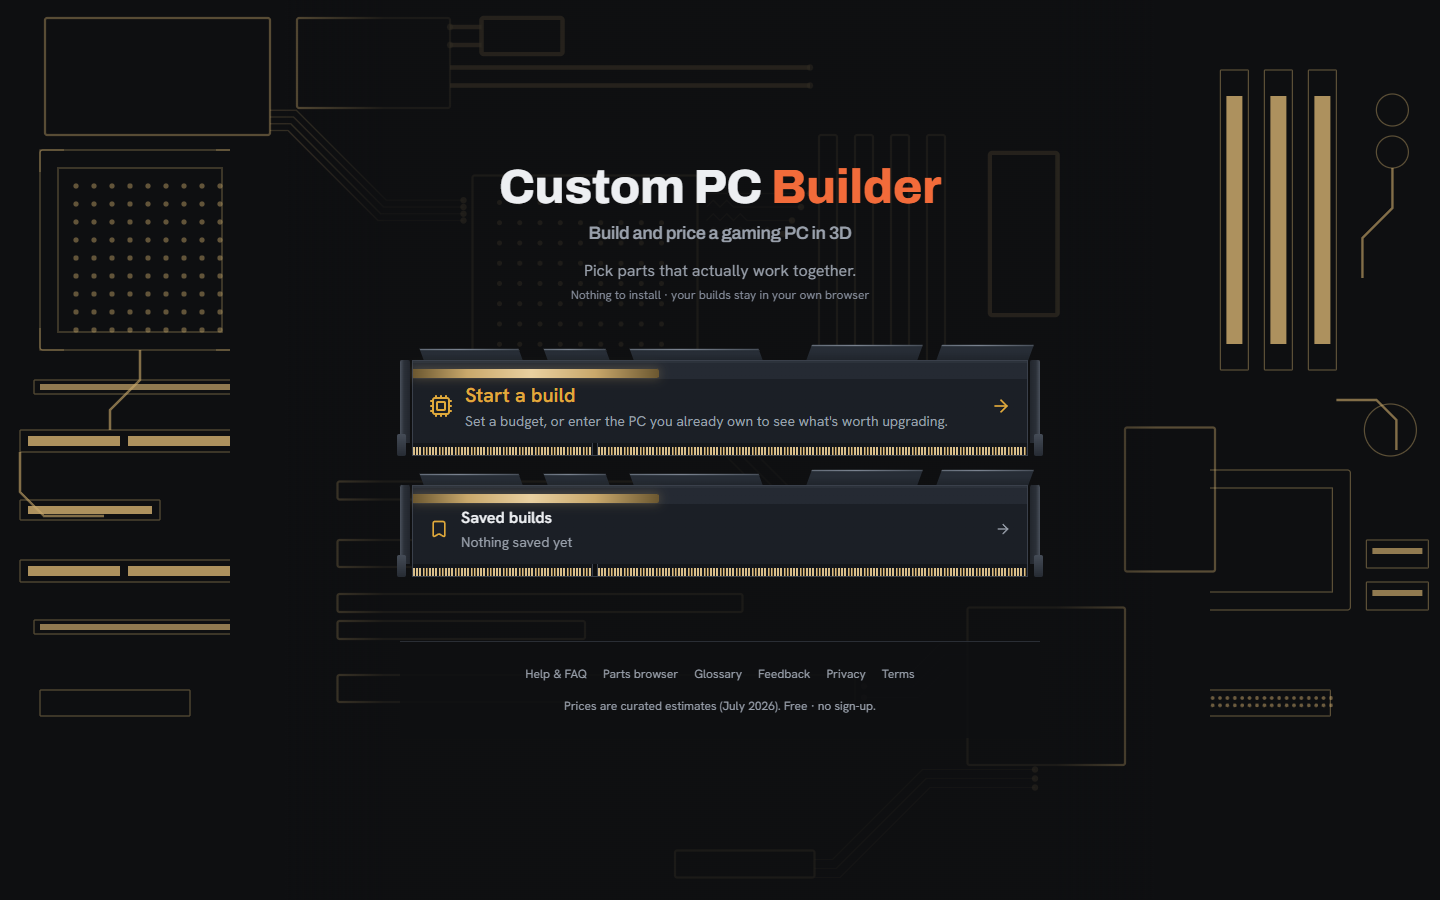
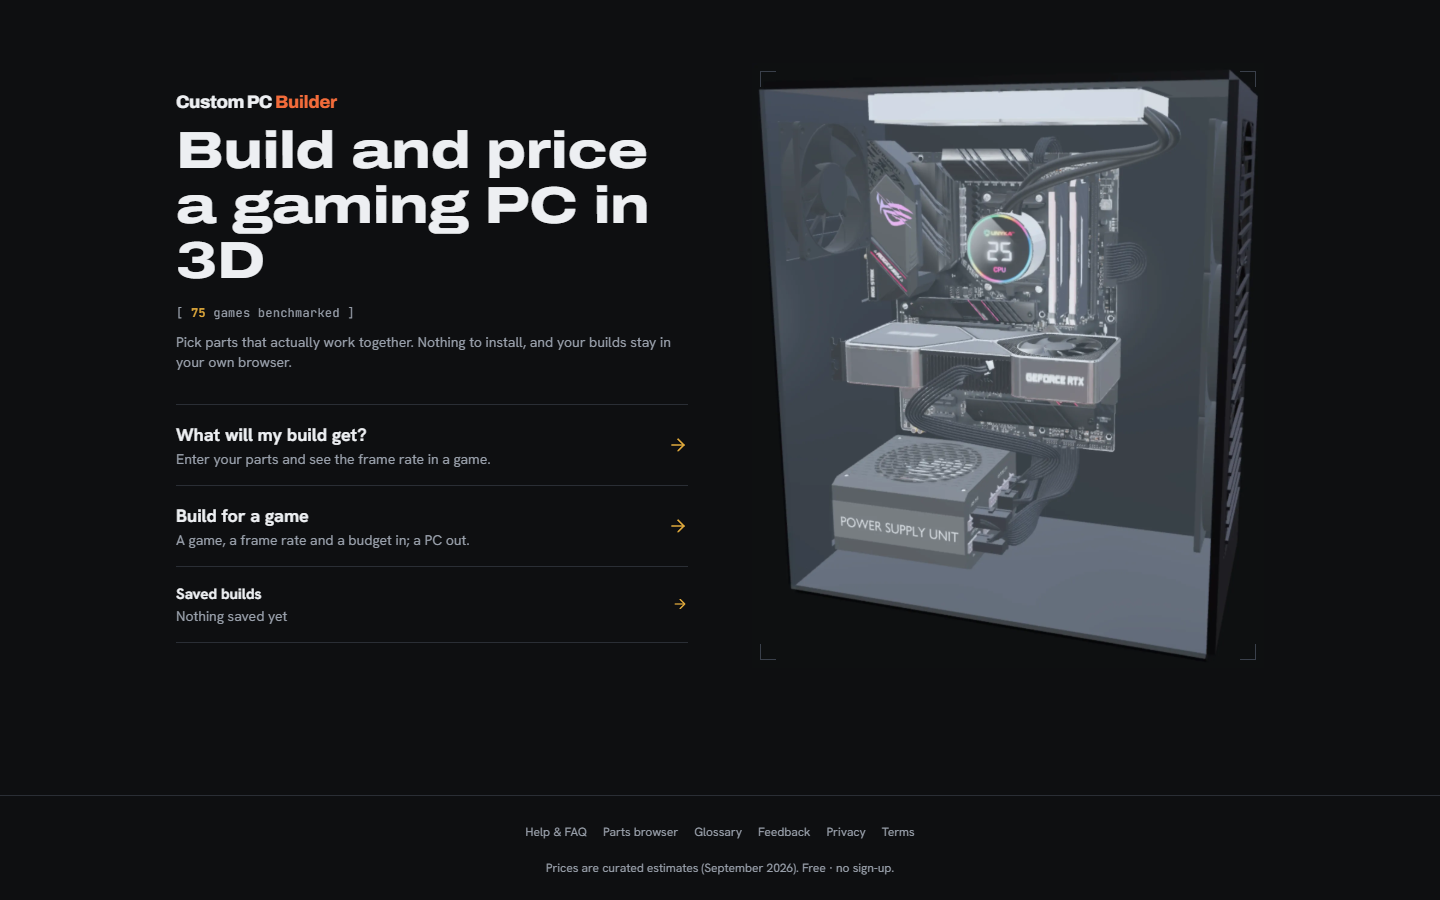
docs(readme): new hero, screenshots of the Showroom UI, current counts

diff --git a/README.md b/README.md
@@ -1,32 +1,70 @@
+<div align="center">
+
 # Custom PC Builder
 
-Plan a compatible custom gaming PC in 3D — live at [custompcbuilder.netlify.app](https://custompcbuilder.netlify.app/).
+**Build and price a gaming PC in 3D — and know what frame rate it will actually get.**
 
-Enter a budget (or pick a quick-start tier), then assemble a build part by part.
-The app checks compatibility as you go, estimates real-game FPS, flags
-bottlenecks, and renders the machine in an interactive 3D case.
+[**Open the app →**](https://custompcbuilder.netlify.app/)
 
-![The builder — a generated £1,700 build rendered in 3D, scored, with the best next upgrade suggested](docs/screenshots/03-builder.png)
+[![CI](https://github.com/Jacob-Baker-Git/CustomPc/actions/workflows/ci.yml/badge.svg)](https://github.com/Jacob-Baker-Git/CustomPc/actions/workflows/ci.yml)
+![React 19](https://img.shields.io/badge/React-19-149eca?logo=react&logoColor=white)
+![three.js](https://img.shields.io/badge/three.js-r187-000000?logo=threedotjs&logoColor=white)
+![Vite](https://img.shields.io/badge/Vite-8-646cff?logo=vite&logoColor=white)
+![Netlify](https://img.shields.io/badge/deployed%20on-Netlify-00c7b7?logo=netlify&logoColor=white)
+
+![Home — build and price a gaming PC in 3D](docs/screenshots/01-home.png)
+
+</div>
+
+## What it does
+
+Picking PC parts is easy. Knowing they fit together, and what they will do in the
+game you actually play, is the hard part. Custom PC Builder does both:
+
+- **Build for a game** — pick a game, a resolution, a target frame rate and a
+  budget. You get three ready-made builds: the cheapest that hits your target, the
+  best value, and the best your budget can buy.
+- **What will my build get?** — enter the parts you own (or are eyeing up) and see
+  the frame rate in 75 benchmarked games, what is holding it back, and what to
+  upgrade next.
+- **See it in 3D** — every part you pick appears inside a real case you can spin,
+  zoom and look through.
+
+Free, no sign-up, nothing to install. Your builds stay in your own browser.
 
 ## Screenshots
 
-| | |
-|---|---|
-| ![Home](docs/screenshots/01-home.png) | ![Budget and tier setup](docs/screenshots/02-setup.png) |
-| **Home** — the two ways in | **Setup** — a budget or a quick-start tier |
-| ![Per-game frame rates](docs/screenshots/04-performance.png) | ![Build summary](docs/screenshots/05-summary.png) |
-| **Performance** — per-game FPS at three resolutions, each row labelled with what it is based on | **Summary** — the finished build, ready to save, share or export |
+<table>
+  <tr>
+    <td width="50%"><img src="docs/screenshots/02-build-for-a-game.png" alt="Build for a game: three builds for Cyberpunk 2077 at 1440p Ultra"></td>
+    <td width="50%"><img src="docs/screenshots/03-builder.png" alt="Build tab: the parts list beside the labelled 3D build"></td>
+  </tr>
+  <tr>
+    <td><b>Build for a game</b> — cheapest, best value and best-in-budget, side by side</td>
+    <td><b>Build</b> — every part, its price, and where it sits in the case</td>
+  </tr>
+  <tr>
+    <td><img src="docs/screenshots/04-performance.png" alt="Performance tab: 128 fps in Cyberpunk 2077 with the bottleneck explained"></td>
+    <td><img src="docs/screenshots/05-summary.png" alt="Summary tab: score, spec and the labelled 3D build"></td>
+  </tr>
+  <tr>
+    <td><b>Performance</b> — frame rate and 1% lows, the bottleneck, and what to upgrade next</td>
+    <td><b>Summary</b> — a score out of 100, power and cooling headroom, ready to save or share</td>
+  </tr>
+</table>
 
 ## Features
 
-- **3D build view** — parts appear inside a stylised case as you pick them (react-three-fiber), with a see-through toggle
-- **Auto-build** — fills the remaining slots with the best-value compatible parts for your budget
-- **Compatibility guardrails** — socket, RAM type, PSU wattage, GPU length / cooler height vs. case dimensions
-- **Performance estimates** — bottleneck balance, est. average FPS at 1080p/1440p/4K, and per-game FPS for popular titles
-- **Budget tracking** — live spend/remaining; the part picker hides parts above 60% of the budget unless you search for them
-- **Peripherals** — monitor, keyboard, mouse, headset alongside the core build
-- **Save, share & compare** — named saved builds (localStorage), shareable `?build=` links, print/markdown export, side-by-side comparison of two saved builds
-- **The in-progress build persists** across refreshes
+| | |
+|---|---|
+| 🧊 **3D build view** | Parts appear in a real case as you pick them, labelled with name and price, with a see-through toggle |
+| 🎮 **Build for a game** | Game + resolution + target FPS + budget in; three compatible builds out |
+| 📈 **Frame-rate estimates** | Per-game FPS and 1% lows at 1080p / 1440p / 4K, each labelled *measured* or *inferred* |
+| 🔍 **Bottleneck analysis** | Which part limits each game, how much it costs you, and what to upgrade next |
+| ✅ **Compatibility checks** | Socket, RAM type, PCIe, PSU wattage, GPU length and cooler height vs. the case |
+| 💷 **Budget tracking** | Live spend and remaining budget, power draw against the PSU |
+| 🖱 **Peripherals** | Monitor, keyboard, mouse and headset alongside the core build |
+| 🔗 **Save, share & compare** | Named saved builds, shareable `?build=` links, print / Markdown export, side-by-side comparison |
 
 ## Stack
 
@@ -37,18 +75,18 @@ Supabase (PostgreSQL) for the catalogue, Vitest + Testing Library, Playwright, d
 
 ```
 src/
-  screens/       BuilderScreen — the one routed screen
-  components/    ~45 UI components
+  screens/       BuilderScreen (build tabs) and TargetScreen (build for a game)
+  components/    ~80 UI components
     models/      one react-three-fiber component per part category
     performance/ the per-game frame-rate table
     art/         drawn SVG artwork for every part and game
-  lib/           60 framework-free modules — the actual logic
+  lib/           ~60 framework-free modules — the actual logic
     perfEngine/  18 modules: the frame-rate model
   store/         3 Zustand stores (builder, catalog, saved)
-  hooks/         routing
+  hooks/         routing, layout and build actions
   data/          bundled catalogue + fitted performance model
 data/            research inputs: benchmarks, spec tables, source URLs
-scripts/         22 Node scripts (model fitting, catalogue push, pre-render, sitemap)
+scripts/         25 Node scripts (model fitting, catalogue push, pre-render, sitemap)
 e2e/             Playwright specs
 ```
 
@@ -114,8 +152,8 @@ rather than silently reintroducing the transfer.
 
 | Suite | What it covers | Command |
 |---|---|---|
-| Vitest — 1,602 tests / 150 files | logic, stores, components in jsdom | `npm run test:run` |
-| Playwright — 56 specs / 14 files | real layout and CSS, which jsdom has none of | `npm run test:e2e` |
+| Vitest — 1,872 tests / 174 files | logic, stores, components in jsdom | `npm run test:run` |
+| Playwright — 67 tests / 11 files | real layout and CSS, which jsdom has none of | `npm run test:e2e` |
 | Playwright `csp` project | the production Content-Security-Policy | part of `test:e2e` |
 
 The split is the point. jsdom computes no layout, so a layout bug cannot fail a
